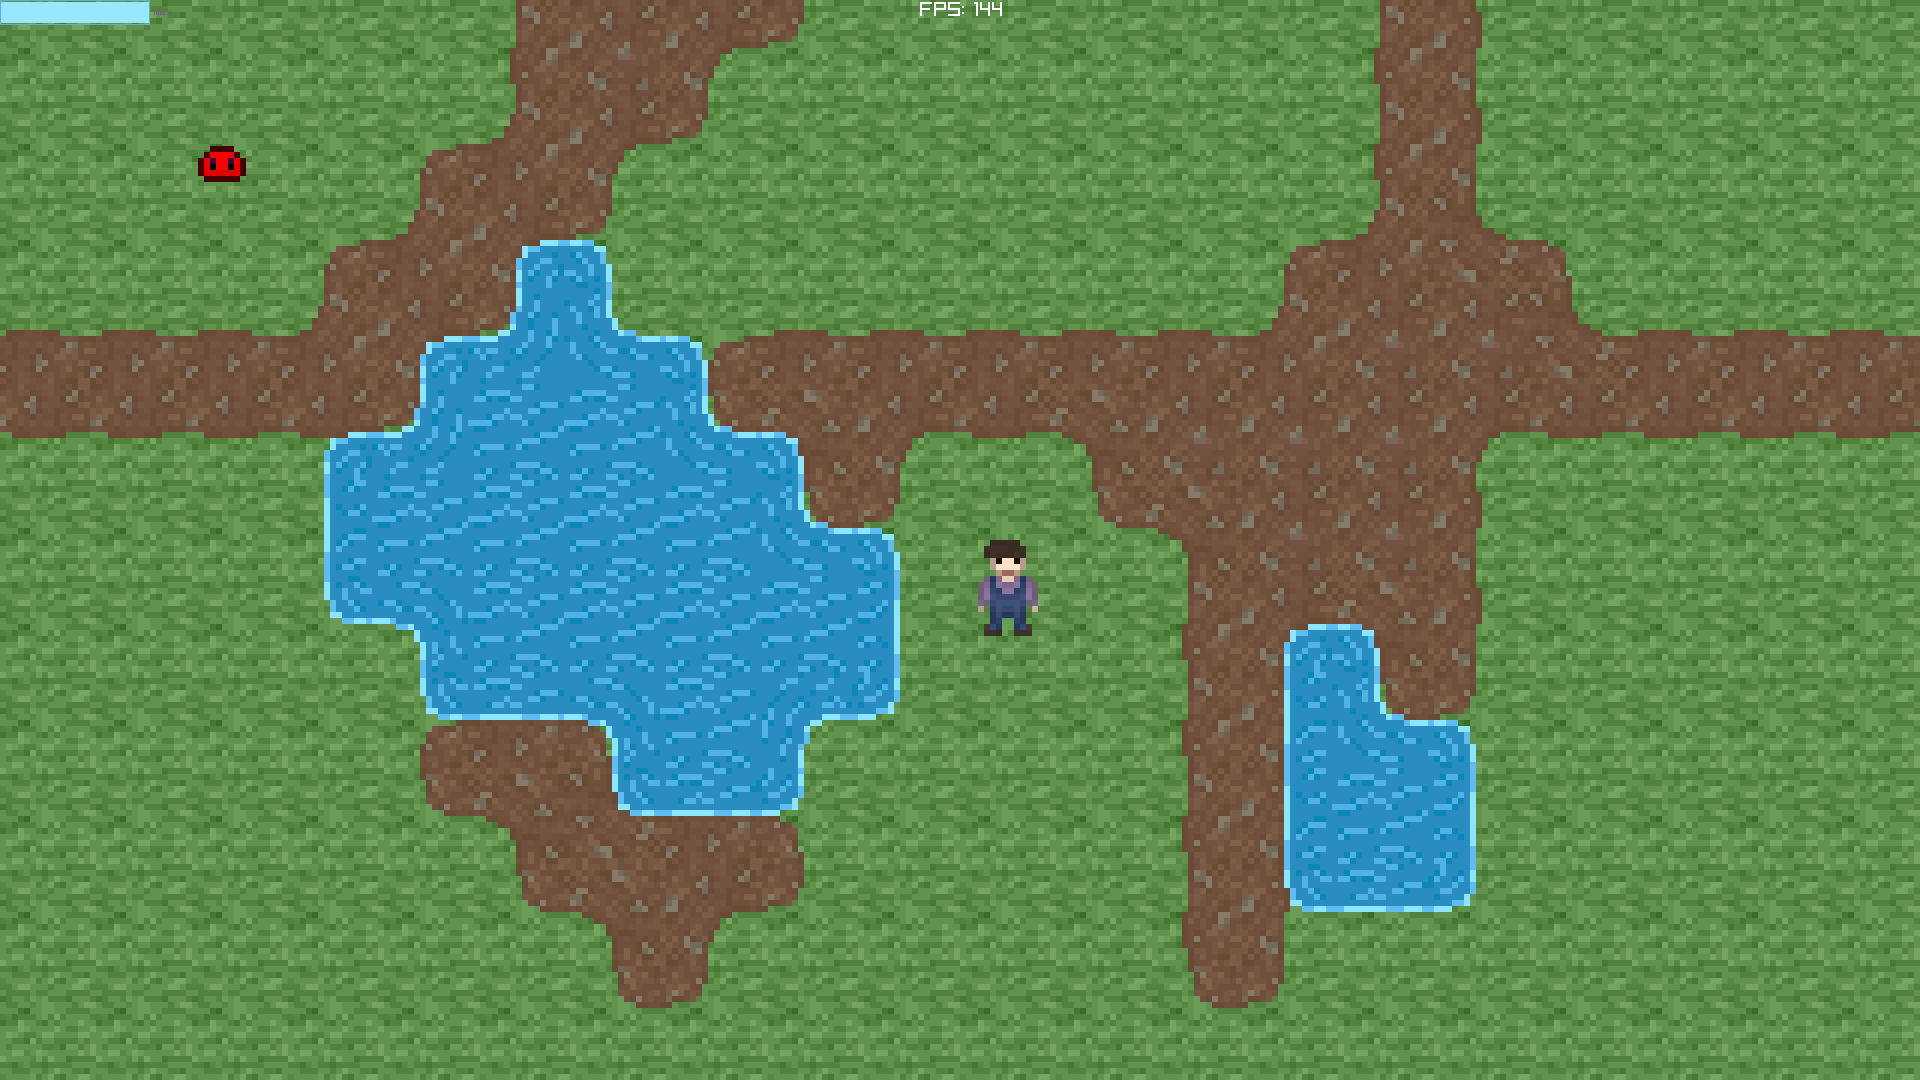
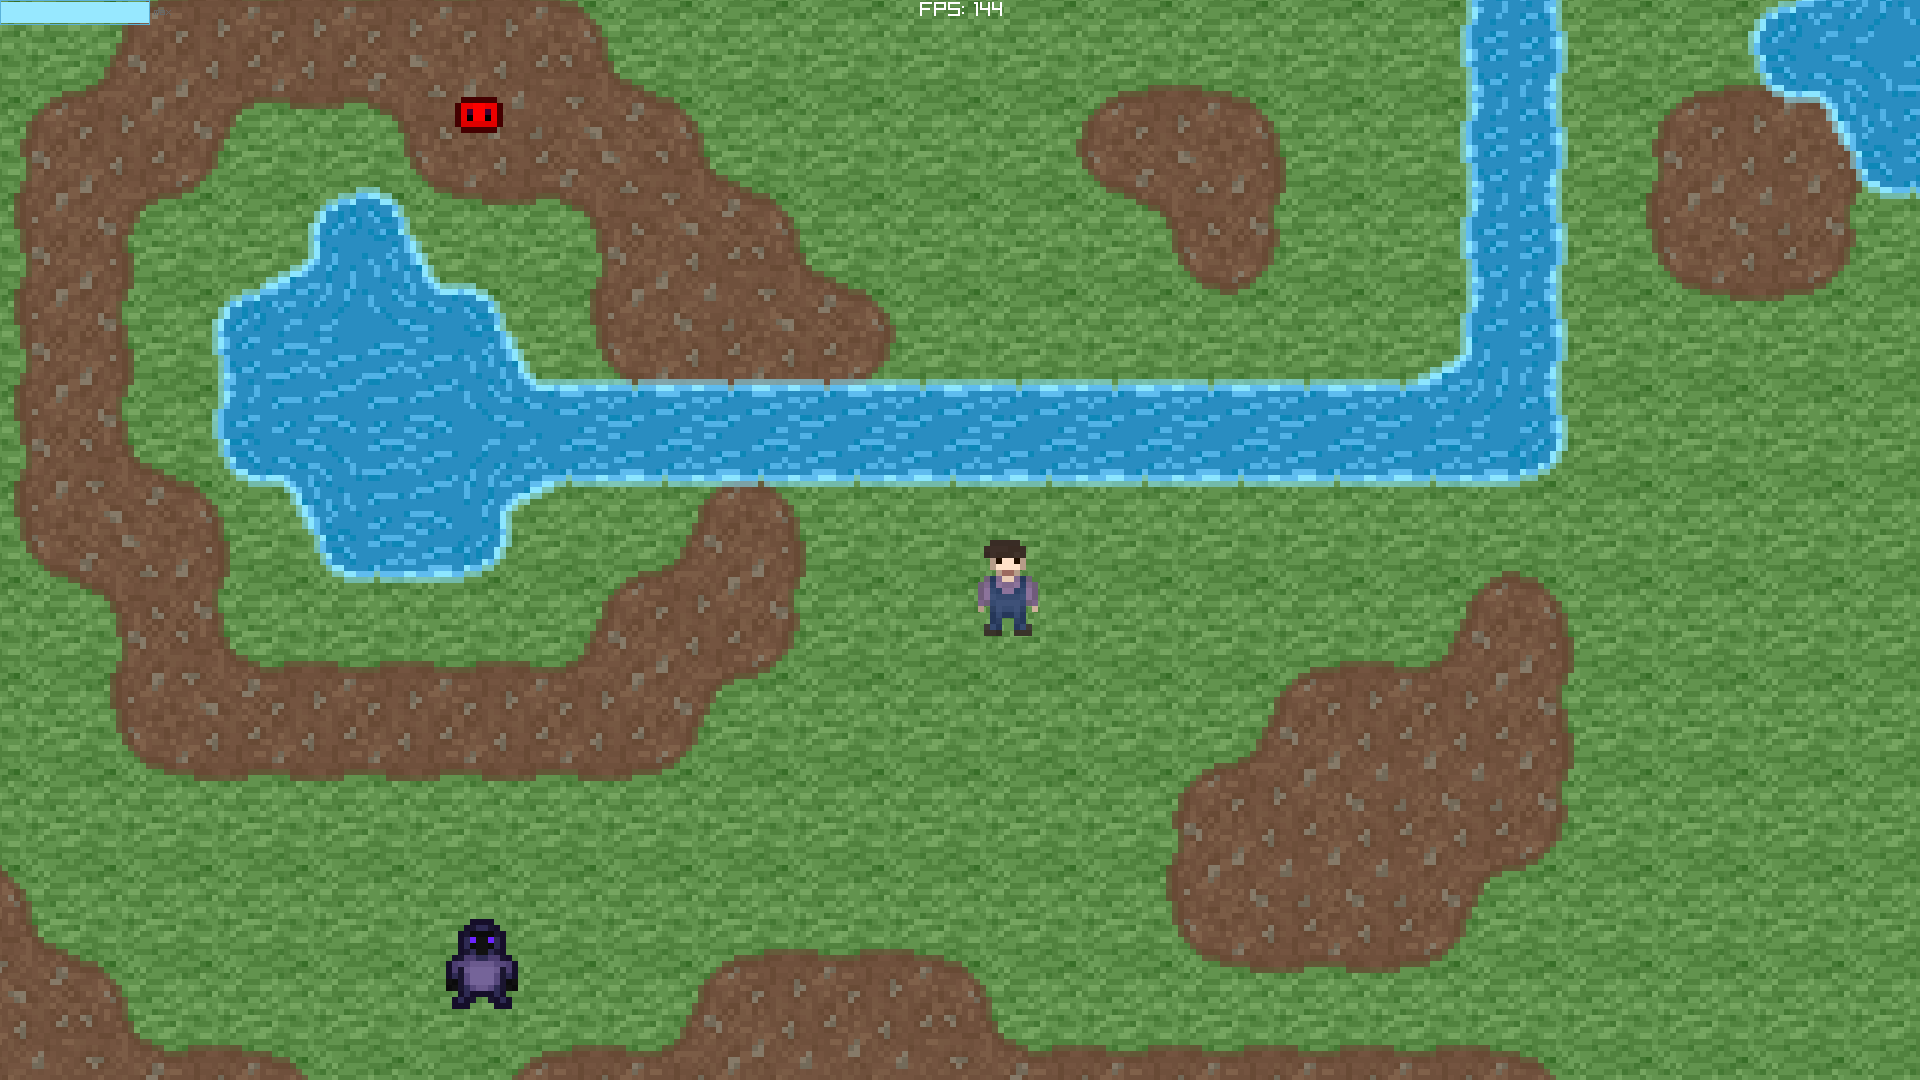
new image

diff --git a/src/main.c b/src/main.c
@@ -28,13 +28,18 @@ int main()
     TileMap level;
     CreateLevel1(&level, assets);
 
+    World world;
+    CreateWorld(&world, 0, level);
+
     Enemy enemy;
     CreateRedSlime(&enemy, assets.spritesheet_red_slime);
     enemy.position = (Vector2){20, 20};
-
-    World world;
-    CreateWorld(&world, 0, level);
     AddEnemyToWorld(&world, enemy);
+    CreateWiz(&enemy, assets.spritesheet_dark_wiz);
+    enemy.position = (Vector2) {100 ,200};
+    AddEnemyToWorld(&world, enemy);
+
+
 
     Camera2D camera = {0};
     camera.target = player.position;
